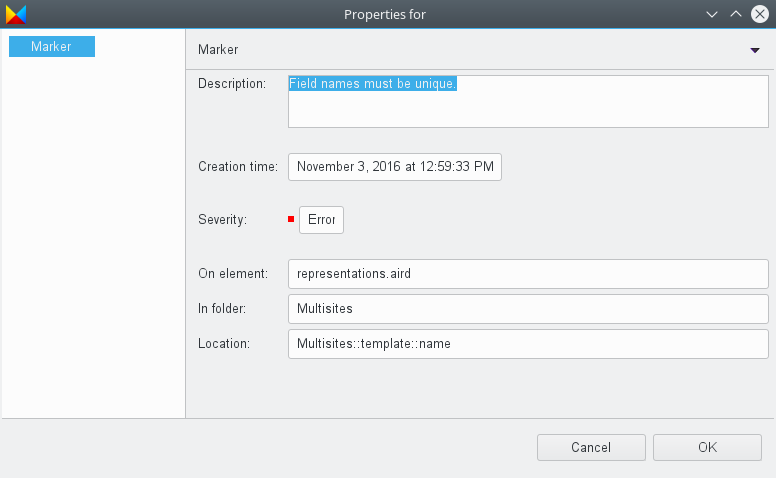
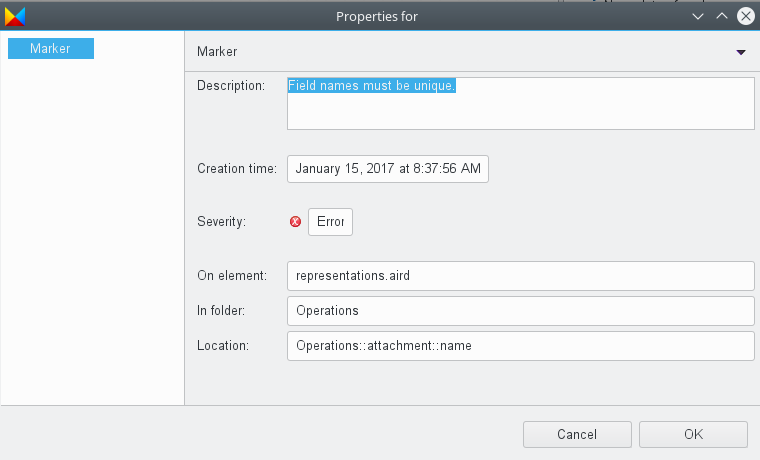
updated problems view images

diff --git a/bundles/de.guite.modulestudio.help/doc/33-Views.md b/bundles/de.guite.modulestudio.help/doc/33-Views.md
@@ -104,6 +104,8 @@ The problem view shows errors and warnings detected by the [validation](50-Valid
 
 ![Problems view](images/ui_views_problems.png "Problems view")
 
+The icons of the problems may contain a bulb indicating that [quick fixes](#quick-fixes-for-problems) are available.
+
 You can sort the problems by clicking on the table column headers. If you click on them again the sorting direction will be changed from ascending to descending.
 
 It is possible to change the width of a column by placing the cursor between two column headers and moving the separator.

diff --git a/bundles/de.guite.modulestudio.help/doc/98-Changelog.md b/bundles/de.guite.modulestudio.help/doc/98-Changelog.md
@@ -9,6 +9,7 @@
 * Fixed editor tab display which did not always show correct titles.
 * Improved dynamic filtering of visible property sheet tabs.
 * Fixed wrong title of problems view in English version (#902).
+* Fixed broken marker images in problems view (#902).
 
 ### DSL / Modelling language changes
 
